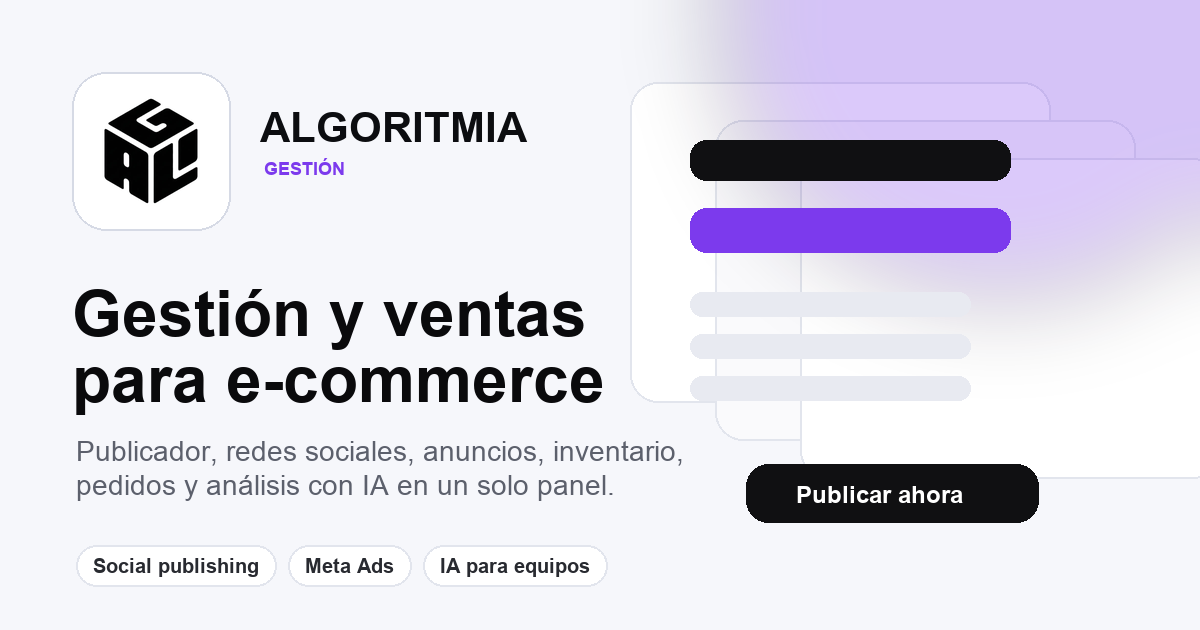
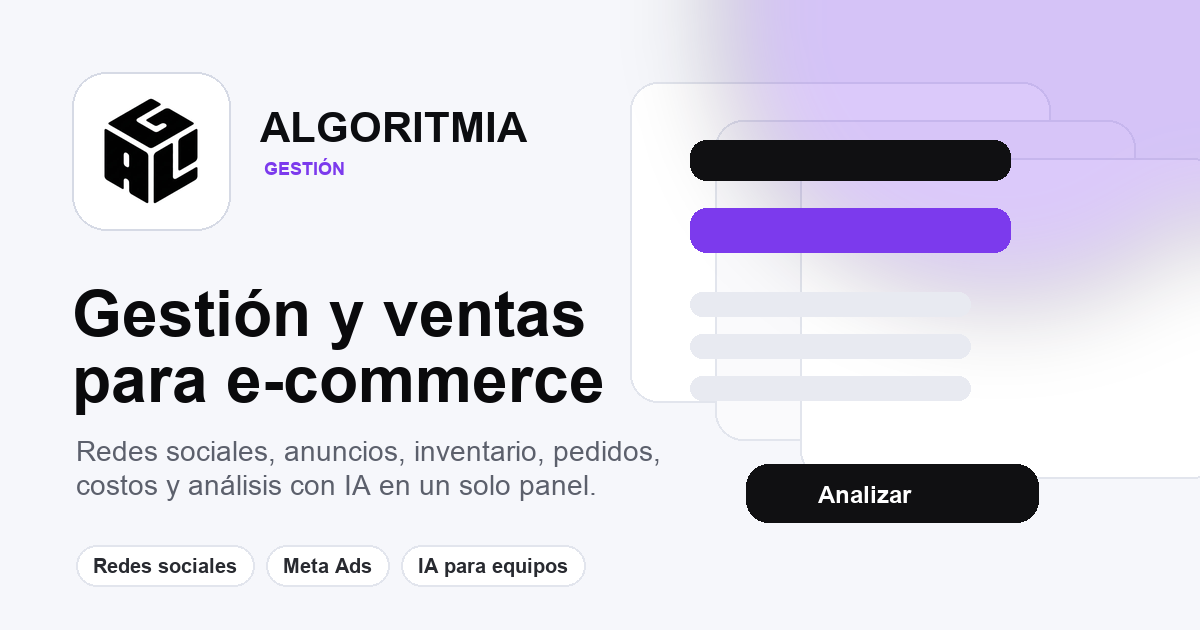
Update SEO after publisher removal

Changed region(s): [[0.0617, 0.6937, 0.555, 0.7841], [0.0617, 0.8746, 0.4933, 0.9349], [0.6475, 0.754, 0.8017, 0.8143]]

diff --git a/index.html b/index.html
@@ -3,7 +3,7 @@
   <head>
     <meta charset="UTF-8" />
     <meta name="viewport" content="width=device-width, initial-scale=1.0, maximum-scale=1.0, user-scalable=no, viewport-fit=cover" />
-    <title>Algoritmia Gestión | Gestión, publicador y análisis para e-commerce</title>
+    <title>Algoritmia Gestión | Gestión y análisis para e-commerce</title>
     <meta name="description" content="Algoritmia Gestión centraliza publicaciones en redes sociales, comentarios, Meta Ads, pedidos, inventario, costos y análisis con IA para equipos de e-commerce." />
     <meta name="application-name" content="Algoritmia Gestión" />
     <meta name="author" content="Algoritmia Gestion" />
@@ -22,20 +22,20 @@
     <meta property="og:type" content="website" />
     <meta property="og:url" content="https://app.algoritmiadesarrollos.com.ar/" />
     <meta property="og:title" content="Algoritmia Gestión | Gestión y ventas para e-commerce" />
-    <meta property="og:description" content="Publicador, redes sociales, anuncios, inventario, pedidos y análisis con IA en un solo panel para e-commerce." />
+    <meta property="og:description" content="Redes sociales, anuncios, inventario, pedidos, costos y análisis con IA en un solo panel para e-commerce." />
     <meta property="og:image" content="https://app.algoritmiadesarrollos.com.ar/assets/og-algoritmia.png" />
     <meta property="og:image:secure_url" content="https://app.algoritmiadesarrollos.com.ar/assets/og-algoritmia.png" />
     <meta property="og:image:type" content="image/png" />
     <meta property="og:image:width" content="1200" />
     <meta property="og:image:height" content="630" />
-    <meta property="og:image:alt" content="Algoritmia Gestión, plataforma para e-commerce con publicador, Meta Ads, inventario e IA." />
+    <meta property="og:image:alt" content="Algoritmia Gestión, plataforma para e-commerce con redes sociales, Meta Ads, inventario e IA." />
     <meta property="og:locale" content="es_AR" />
     <meta property="og:site_name" content="Algoritmia Gestión" />
 
     <!-- Twitter / X Card -->
     <meta name="twitter:card" content="summary_large_image" />
     <meta name="twitter:title" content="Algoritmia Gestión | Gestión y ventas para e-commerce" />
-    <meta name="twitter:description" content="Publicador, redes sociales, anuncios, inventario, pedidos y análisis con IA en un solo panel." />
+    <meta name="twitter:description" content="Redes sociales, anuncios, inventario, pedidos, costos y análisis con IA en un solo panel." />
     <meta name="twitter:image" content="https://app.algoritmiadesarrollos.com.ar/assets/og-algoritmia.png" />
     <meta name="twitter:image:alt" content="Algoritmia Gestión, plataforma para gestionar e-commerce." />
 

diff --git a/public/tiktok-review.html b/public/tiktok-review.html
@@ -4,7 +4,7 @@
   <meta charset="UTF-8" />
   <meta name="viewport" content="width=device-width, initial-scale=1.0" />
   <title>Algoritmia Gestion | Social Commerce Operations Platform</title>
-  <meta name="description" content="Algoritmia Gestion is a production SaaS platform for ecommerce teams to manage social publishing, comments, ads insights, orders, inventory and customer operations." />
+  <meta name="description" content="Algoritmia Gestion is a production SaaS platform for ecommerce teams to manage social channels, comments, ads insights, orders, inventory and customer operations." />
   <meta name="robots" content="index, follow, max-image-preview:large" />
   <meta name="theme-color" content="#7c3aed" />
   <link rel="canonical" href="https://app.algoritmiadesarrollos.com.ar/tiktok-review.html" />
@@ -14,7 +14,7 @@
   <meta property="og:type" content="website" />
   <meta property="og:url" content="https://app.algoritmiadesarrollos.com.ar/tiktok-review.html" />
   <meta property="og:title" content="Algoritmia Gestion | Social Commerce Operations Platform" />
-  <meta property="og:description" content="Production SaaS platform for ecommerce teams with TikTok integration, social publishing, comments, ads insights and customer operations." />
+  <meta property="og:description" content="Production SaaS platform for ecommerce teams with TikTok integration, social channel visibility, comments, ads insights and customer operations." />
   <meta property="og:image" content="https://app.algoritmiadesarrollos.com.ar/assets/og-algoritmia.png" />
   <meta property="og:image:secure_url" content="https://app.algoritmiadesarrollos.com.ar/assets/og-algoritmia.png" />
   <meta property="og:image:type" content="image/png" />
@@ -246,7 +246,7 @@
         <div class="eyebrow"><span class="dot"></span> Production web application for ecommerce teams</div>
         <h1>Manage social content, commerce operations and customer conversations in one workspace.</h1>
         <p class="lead">
-          Algoritmia Gestion is a SaaS platform used by ecommerce businesses to centralize social publishing, comments, ads insights, product analytics, orders, inventory and AI-assisted customer support.
+          Algoritmia Gestion is a SaaS platform used by ecommerce businesses to centralize social channels, comments, ads insights, product analytics, orders, inventory and AI-assisted customer support.
         </p>
         <div class="ctaRow">
           <a class="btn primary" href="/#/login">Open secure app</a>
@@ -266,7 +266,7 @@
       </div>
       <div class="grid">
         <article class="card">
-          <span class="pill">Publishing</span>
+          <span class="pill">Social channels</span>
           <b>Multi-channel content planning</b>
           <p>Users upload media, choose connected social channels, schedule content and review publication history by client account.</p>
         </article>